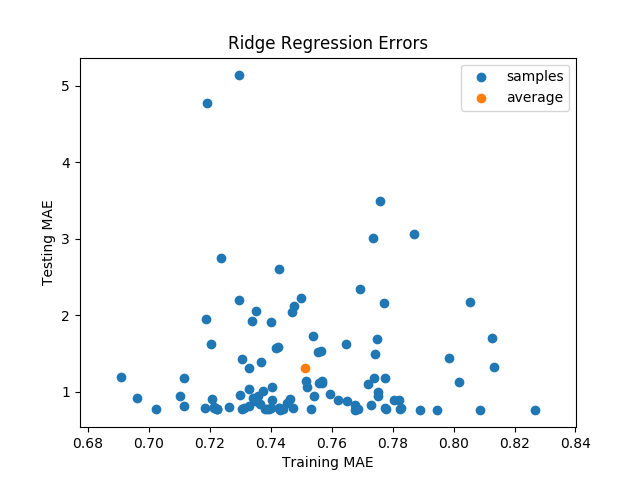
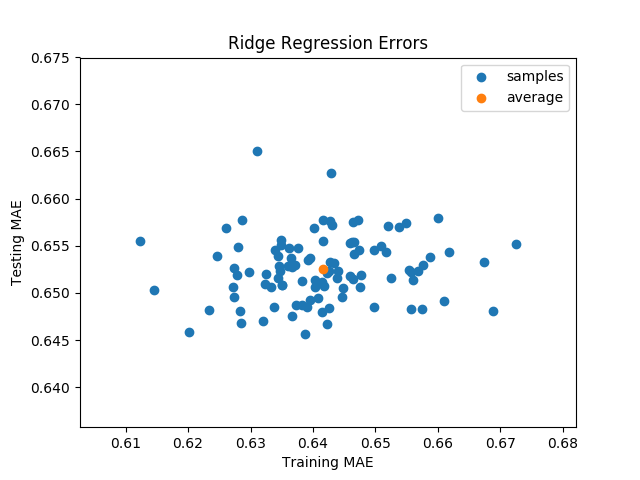
pcr graphs

diff --git a/milestone_4/plot_errors.py b/milestone_4/plot_errors.py
@@ -20,11 +20,34 @@ with open('error_data/test_error_Ridge.csv') as f:
     lines = f.readlines()
     Ridge_test = np.array(lines, dtype = np.float32)
 
+
+with open('error_data/train_error_pca2.csv') as f:
+    lines = f.readlines()
+    pca2_train = np.array(lines, dtype = np.float32)
+
+
+with open('error_data/test_error_pca2.csv') as f:
+    lines = f.readlines()
+    pca2_test = np.array(lines, dtype = np.float32)
+
+
+with open('error_data/train_error_pca3.csv') as f:
+    lines = f.readlines()
+    pca3_train = np.array(lines, dtype = np.float32)
+
+
+with open('error_data/test_error_pca3.csv') as f:
+    lines = f.readlines()
+    pca3_test = np.array(lines, dtype = np.float32)
+
 GP_train_av = np.average(GP_train)
 GP_test_av = np.average(GP_test)
 Ridge_train_av = np.average(Ridge_train)
 Ridge_test_av = np.average(Ridge_test)
-
+pca2_train_av = np.average(pca2_train)
+pca2_test_av = np.average(pca2_test)
+pca3_train_av = np.average(pca3_train)
+pca3_test_av = np.average(pca3_test)
 
 plt.scatter(GP_train, GP_test, label="samples")
 plt.scatter([GP_train_av], [GP_test_av], label="average")
@@ -47,21 +70,39 @@ plt.show()
 
 
 
+plt.scatter(pca2_train, pca2_test, label = "samples")
+plt.scatter([pca2_train_av], [pca2_test_av], label="average")
+plt.xlabel("Training MAE")
+plt.ylabel("Testing MAE")
+plt.title('Principal 2-Component Regression Errors')
+plt.legend()
+plt.savefig('graphs/pca2.png')
+plt.show()
+
+
+
+plt.scatter(pca3_train, pca3_test, label = "samples")
+plt.scatter([pca3_train_av], [pca3_test_av], label="average")
+plt.xlabel("Training MAE")
+plt.ylabel("Testing MAE")
+plt.title('Principal 3-Component Regression Errors')
+plt.legend()
+plt.savefig('graphs/pca3.png')
+plt.show()
 
 
 
 
-
-
-
-plt.scatter(GP_train, GP_test, label="GP samples")
 plt.scatter(Ridge_train, Ridge_test, label = "Ridge samples")
+plt.scatter(GP_train, GP_test, label="GP samples")
+plt.scatter(pca2_train, pca2_test, label = "2PCR samples")
+plt.scatter(pca3_train, pca3_test, label = "3PCR samples")
 #plt.scatter([GP_train_av], [GP_test_av], label="GP average")
 #plt.scatter([Ridge_train_av], [Ridge_test_av], label="Ridge average")
 plt.xlabel("Training MAE")
 plt.ylabel("Testing MAE")
 plt.title('Comparative Errors')
-plt.legend()
+plt.legend(loc='upper right')
 plt.savefig('graphs/Comparison.png')
 plt.show()
 

diff --git a/optional_9/plot_times.py b/optional_9/plot_times.py
@@ -20,10 +20,26 @@ with open('timing_data/test_time_Ridge.csv') as f:
     lines = f.readlines()
     Ridge_test = np.array(lines, dtype = np.float32)
 
-print(len(GP_train))
-print(len(GP_test))
-print(len(Ridge_train))
-print(len(Ridge_test))
+
+
+with open('timing_data/train_time_pca2.csv') as f:
+    lines = f.readlines()
+    pca2_train = np.array(lines, dtype = np.float32)
+
+
+with open('timing_data/test_time_pca2.csv') as f:
+    lines = f.readlines()
+    pca2_test = np.array(lines, dtype = np.float32)
+
+
+with open('timing_data/train_time_pca3.csv') as f:
+    lines = f.readlines()
+    pca3_train = np.array(lines, dtype = np.float32)
+
+
+with open('timing_data/test_time_pca3.csv') as f:
+    lines = f.readlines()
+    pca3_test = np.array(lines, dtype = np.float32)
 
 
 plt.hist(GP_train)
@@ -59,6 +75,34 @@ plt.show()
 
 
 
+plt.hist(pca2_train)
+plt.xlabel('Training Time (sec)')
+plt.ylabel('Count')
+plt.title('Histogram of Principal 2-Component Regression Training')
+plt.savefig('graphs/pca2_train.png')
+plt.show()
+
+
+plt.hist(pca2_test)
+plt.xlabel('Testing Time (sec)')
+plt.ylabel('Count')
+plt.title('Histogram of Principal 2-Component Regression Testing')
+plt.savefig('graphs/pca2_test.png')
+plt.show()
 
 
 
+plt.hist(pca3_train)
+plt.xlabel('Training Time (sec)')
+plt.ylabel('Count')
+plt.title('Histogram of Principal 3-Component Regression Training')
+plt.savefig('graphs/pca3_train.png')
+plt.show()
+
+
+plt.hist(pca3_test)
+plt.xlabel('Testing Time (sec)')
+plt.ylabel('Count')
+plt.title('Histogram of Principal 3-Component Regression Testing')
+plt.savefig('graphs/pca3_test.png')
+plt.show()
